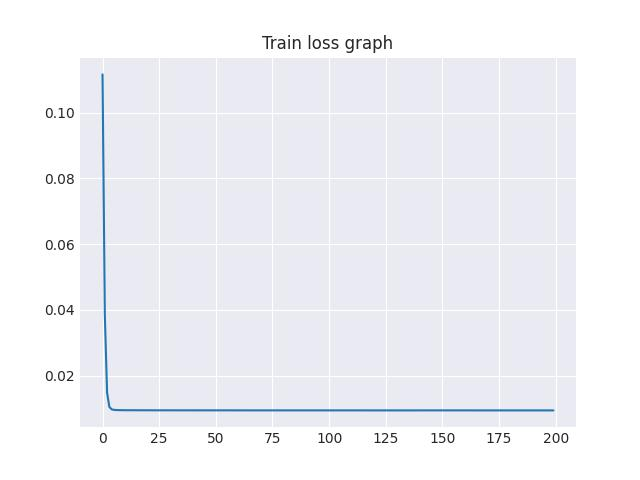
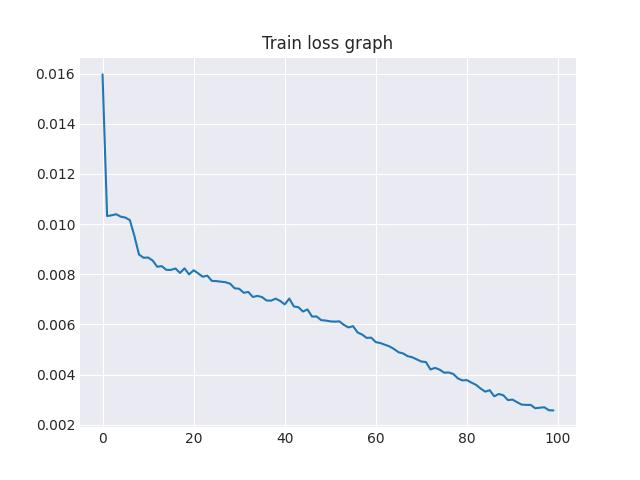
change the config12 params of short-term patchTST

diff --git a/main/train_PT_longT_cp.py b/main/train_PT_longT_cp.py
@@ -155,7 +155,7 @@ def main(cfg):
     trn_dl = torch.utils.data.DataLoader(trn_ds, **data_loader_params)
     
     tst_ds = dt_class(tst_scaled, **window_params)
-    tst_dl = torch.utils.data.DataLoader(tst_ds, batch_size=tst_size, shuffle=False)
+    tst_dl = torch.utils.data.DataLoader(tst_ds, batch_size=1, shuffle=False)
     ##################################################
     
     ########## 3. Train Hyperparams setting ##########
@@ -269,6 +269,7 @@ def main(cfg):
     
     ################ 6. Plot and save ################
     # 36: 초미세먼지 수치가 "나쁨" 인 기중
+    y, p = y.T, p.T #patchTST longterm 수행 시
     peak_idx = np.unique(np.where(y > 36)[0])
     print(y.shape)
     print(peak_idx)
@@ -294,15 +295,15 @@ def main(cfg):
     plt.savefig(day_path, format="jpeg")
     plt.cla()
         
-    for i in peak_idx:
-        mse, rmse, r2, mae, mape = mse_func(p[i],y[i]), rmse_func(p[i],y[i]), r2_score(p[i],y[i]), mae_func(p[i],y[i]), mape_func(p[i],y[i])
-        plt.title(f"PatchTST, MSE:{mse:.4f}, RMSE:{rmse:.4f}, R2:{r2:.4f}, \nMAE:{mae:.4f}, MAPE:{mape:.4f}")
-        plt.plot(range(forecast_size), y[i], label="True")
-        plt.plot(range(forecast_size), p[i], label="Prediction")
-        plt.legend()
+    # for i in peak_idx:
+    #     mse, rmse, r2, mae, mape = mse_func(p[i],y[i]), rmse_func(p[i],y[i]), r2_score(p[i],y[i]), mae_func(p[i],y[i]), mape_func(p[i],y[i])
+    #     plt.title(f"PatchTST, MSE:{mse:.4f}, RMSE:{rmse:.4f}, R2:{r2:.4f}, \nMAE:{mae:.4f}, MAPE:{mape:.4f}")
+    #     plt.plot(range(forecast_size), y[i], label="True")
+    #     plt.plot(range(forecast_size), p[i], label="Prediction")
+    #     plt.legend()
 
-        plt.savefig(peak_path + f"{i}.jpg", format="jpeg")
-        plt.cla()
+    #     plt.savefig(peak_path + f"{i}.jpg", format="jpeg")
+    #     plt.cla()
     ##################################################
     
 
@@ -310,7 +311,7 @@ def get_args_parser(add_help=True):
   import argparse
   
   parser = argparse.ArgumentParser(description="Time-Series Prediction with ANN, PatchTST", add_help=add_help)
-  parser.add_argument("-c", "--config", default="pretrained_config/single_patchtst/short_term/config_patchtst12_0.py", type=str, help="configuration file")
+  parser.add_argument("-c", "--config", default="pretrained_config/single_patchtst/long_term/config_patchtst14_2.py", type=str, help="configuration file")
 
   return parser
 

diff --git a/main/pretrained_config/single_patchtst/short_term/config_patchtst12_epoch100.py b/main/pretrained_config/single_patchtst/short_term/config_patchtst12_epoch100.py
@@ -39,7 +39,7 @@ config = {
     },
     'metric': torchmetrics.MeanSquaredError(squared=False),
     'device': 'cuda',
-    'epochs': 10, # 10~100이하
+    'epochs': 100, # 10~100이하
   },
   
   'eval_params':{
@@ -48,8 +48,8 @@ config = {
   },
 
   "save_files":{
-      "csv": "csv/single_patchtst/short_term/patchtst12cp.csv",
-      "day": "figs/single_patchtst/short_term/everyday/graph12cp.jpg",
-      "peak": "figs/single_patchtst/short_term/peakday/config12/"
+      "csv": "csv/single_patchtst/short_term/patchtst12_epoch100.csv",
+      "day": "figs/single_patchtst/short_term/everyday/graph12_epoch100.jpg",
+      "peak": "figs/single_patchtst/short_term/peakday/config12_epoch100/"
   }
 }

diff --git a/main/pretrained_config/single_patchtst/short_term/config_patchtst12_epoch300.py b/main/pretrained_config/single_patchtst/short_term/config_patchtst12_epoch300.py
@@ -39,7 +39,7 @@ config = {
     },
     'metric': torchmetrics.MeanSquaredError(squared=False),
     'device': 'cuda',
-    'epochs': 10, # 10~100이하
+    'epochs': 300, # 10~100이하
   },
   
   'eval_params':{
@@ -48,8 +48,8 @@ config = {
   },
 
   "save_files":{
-      "csv": "csv/single_patchtst/short_term/patchtst12cp.csv",
-      "day": "figs/single_patchtst/short_term/everyday/graph12cp.jpg",
-      "peak": "figs/single_patchtst/short_term/peakday/config12/"
+      "csv": "csv/single_patchtst/short_term/patchtst12_epoch300.csv",
+      "day": "figs/single_patchtst/short_term/everyday/graph12_epoch300.jpg",
+      "peak": "figs/single_patchtst/short_term/peakday/config12_epoch300/"
   }
 }

diff --git a/main/pretrained_config/single_patchtst/short_term/config_patchtst12_0.py b/main/pretrained_config/single_patchtst/short_term/config_patchtst12_0.py
@@ -21,7 +21,7 @@ config = {
   
   'model': PatchTST, # or RandomForestRegressor
   'model_params': {
-    "model_dim": 128, 
+    "model_dim": 8, 
     "num_heads": 8, 
     "num_layers": 4
   },
@@ -48,8 +48,8 @@ config = {
   },
 
   "save_files":{
-      "csv": "csv/single_patchtst/short_term/patchtst12cp.csv",
-      "day": "figs/single_patchtst/short_term/everyday/graph12cp.jpg",
-      "peak": "figs/single_patchtst/short_term/peakday/config12/"
+      "csv": "csv/single_patchtst/short_term/patchtst12_0.csv",
+      "day": "figs/single_patchtst/short_term/everyday/graph12_0.jpg",
+      "peak": "figs/single_patchtst/short_term/peakday/config12_0/"
   }
 }

diff --git a/main/pretrained_config/single_patchtst/short_term/config_patchtst12_1.py b/main/pretrained_config/single_patchtst/short_term/config_patchtst12_1.py
@@ -21,7 +21,7 @@ config = {
   
   'model': PatchTST, # or RandomForestRegressor
   'model_params': {
-    "model_dim": 128, 
+    "model_dim": 8, 
     "num_heads": 8, 
     "num_layers": 4
   },
@@ -48,8 +48,8 @@ config = {
   },
 
   "save_files":{
-      "csv": "csv/single_patchtst/short_term/patchtst12cp.csv",
-      "day": "figs/single_patchtst/short_term/everyday/graph12cp.jpg",
-      "peak": "figs/single_patchtst/short_term/peakday/config12/"
+      "csv": "csv/single_patchtst/short_term/patchtst12_0.csv",
+      "day": "figs/single_patchtst/short_term/everyday/graph12_0.jpg",
+      "peak": "figs/single_patchtst/short_term/peakday/config12_0/"
   }
 }

diff --git a/main/train_PT_shortT.py b/main/train_PT_shortT.py
@@ -310,7 +310,7 @@ def get_args_parser(add_help=True):
   import argparse
   
   parser = argparse.ArgumentParser(description="Time-Series Prediction with ANN, PatchTST", add_help=add_help)
-  parser.add_argument("-c", "--config", default="pretrained_config/single_patchtst/short_term/config_patchtst12_0.py", type=str, help="configuration file")
+  parser.add_argument("-c", "--config", default="pretrained_config/single_patchtst/short_term/config_patchtst12_epoch100.py", type=str, help="configuration file")
 
   return parser
 

diff --git a/main/pretrained_config/single_patchtst/short_term/config_patchtst12cp.py b/main/pretrained_config/single_patchtst/short_term/config_patchtst12cp.py
@@ -48,8 +48,8 @@ config = {
   },
 
   "save_files":{
-      "csv": "csv/single_patchtst/short_term/patchtst12cp.csv",
-      "day": "figs/single_patchtst/short_term/everyday/graph12cp.jpg",
+      "csv": "csv/single_patchtst/short_term/patchtst12.csv",
+      "day": "figs/single_patchtst/short_term/everyday/graph12.jpg",
       "peak": "figs/single_patchtst/short_term/peakday/config12/"
   }
 }
